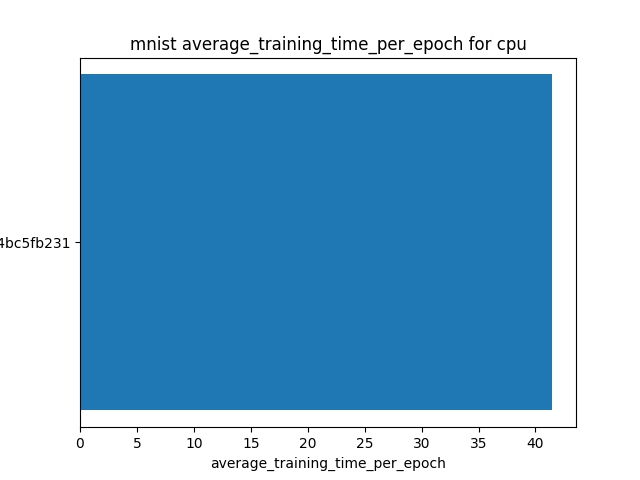
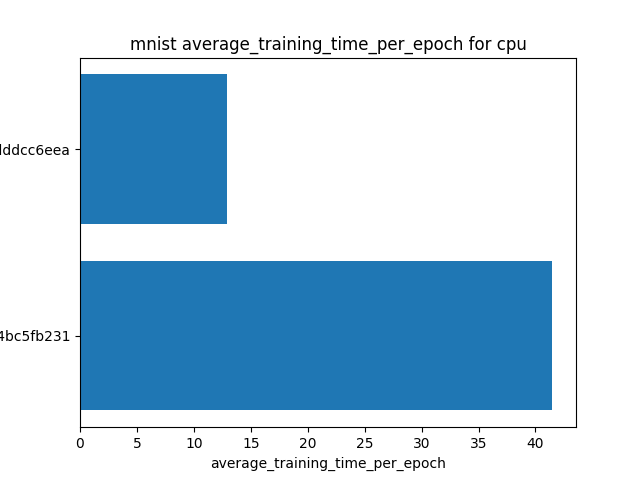
Add first CUDA device

Changed region(s): [[0.0, 0.1562, 0.875, 0.5625], [0.0, 0.2812, 0.125, 0.3438], [0.0, 0.6875, 0.125, 0.7188]]

diff --git a/README.md b/README.md
@@ -20,5 +20,6 @@ python -m src.ai_benchmark_suite
 ## results
 
 ### MNIST
-![MNIST with cpu](results/mnist_cpu_average_training_time_per_epoch.png "MNIST with cpu")
-![MNIST with mps](results/mnist_mps_average_training_time_per_epoch.png "MNIST with mps")
+![MNIST with cpu](results/mnist_cpu_average_training_time_per_epoch.png)
+![MNIST with cuda](results/mnist_cuda_average_training_time_per_epoch.png)
+![MNIST with mps](results/mnist_mps_average_training_time_per_epoch.png)
